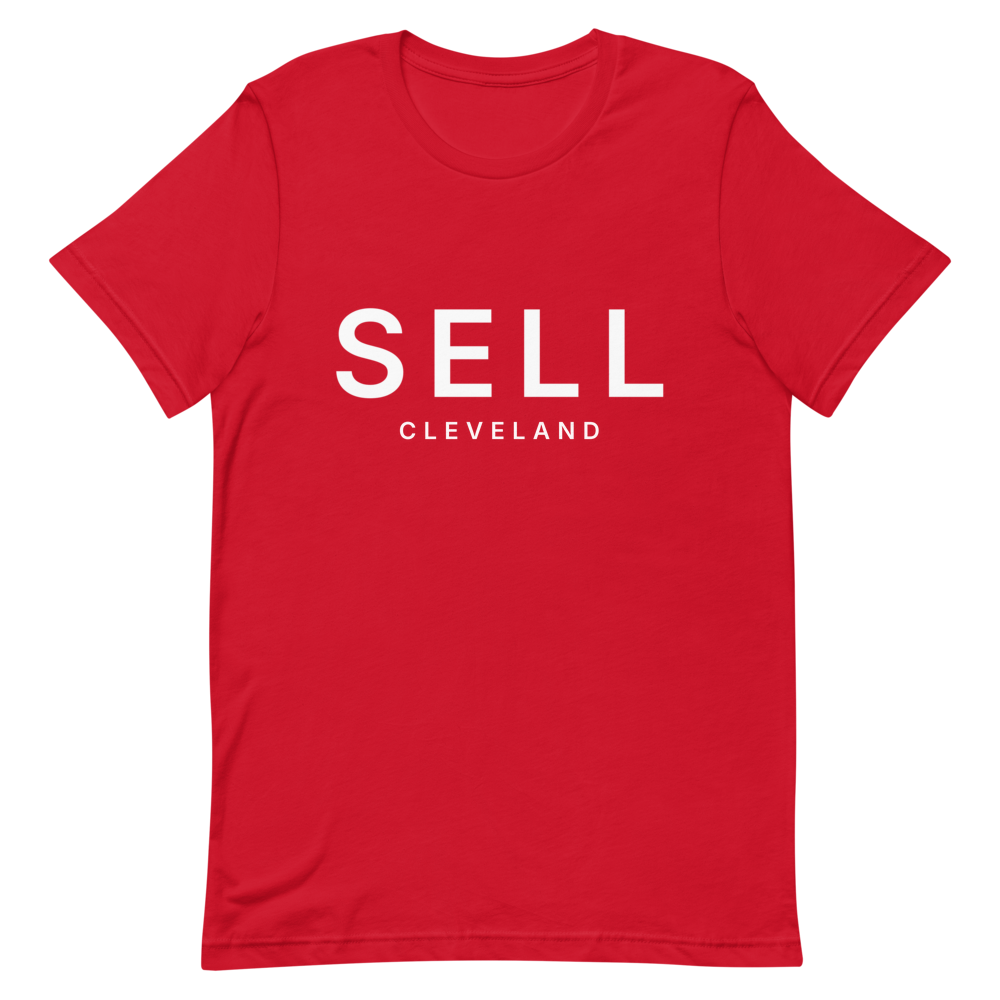
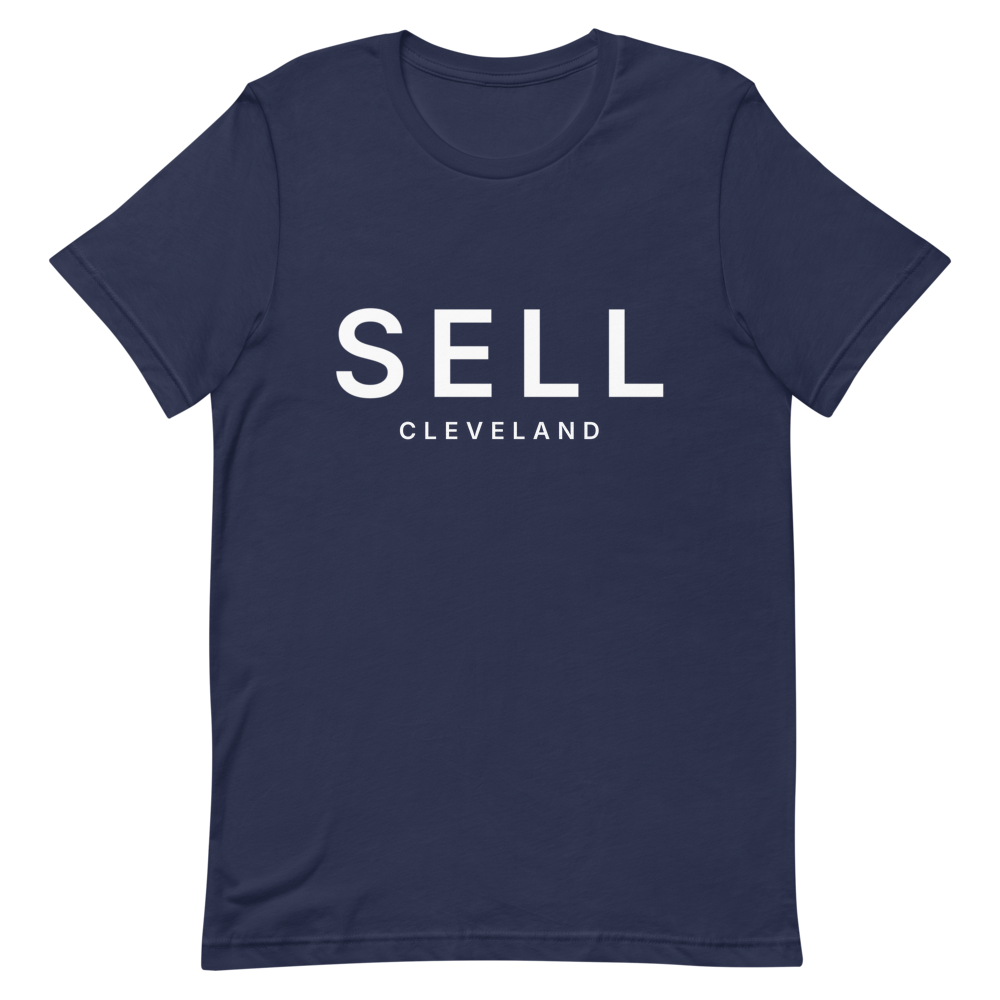
Cleveland in navy

diff --git a/lib/teams.ts b/lib/teams.ts
@@ -70,7 +70,7 @@ const ROWS: Row[] = [
   ["toronto", "al-east", "Toronto", "Blue Jays", "TORONTO", "True Royal", "Royal"],
   // AL Central
   ["chicago-black", "al-central", "Chicago", "White Sox", "CHICAGO", "Black", "Black"],
-  ["cleveland", "al-central", "Cleveland", "Guardians", "CLEVELAND", "Red", "Red"],
+  ["cleveland", "al-central", "Cleveland", "Guardians", "CLEVELAND", "Navy", "Navy"],
   ["detroit", "al-central", "Detroit", "Tigers", "DETROIT", "Orange", "Orange"],
   ["kansas-city", "al-central", "Kansas City", "Royals", "KANSAS CITY", "True Royal", "Royal"],
   ["minnesota", "al-central", "Minnesota", "Twins", "MINNESOTA", "Navy", "Navy"],

diff --git a/lib/art.ts b/lib/art.ts
@@ -1,4 +1,4 @@
 // Bump when the shirt artwork or photos change: Printful caches print files by
 // URL and next/image caches optimized photos by URL, so a new number makes
 // both fetch fresh copies.
-export const ART_VERSION = 9;
+export const ART_VERSION = 10;
